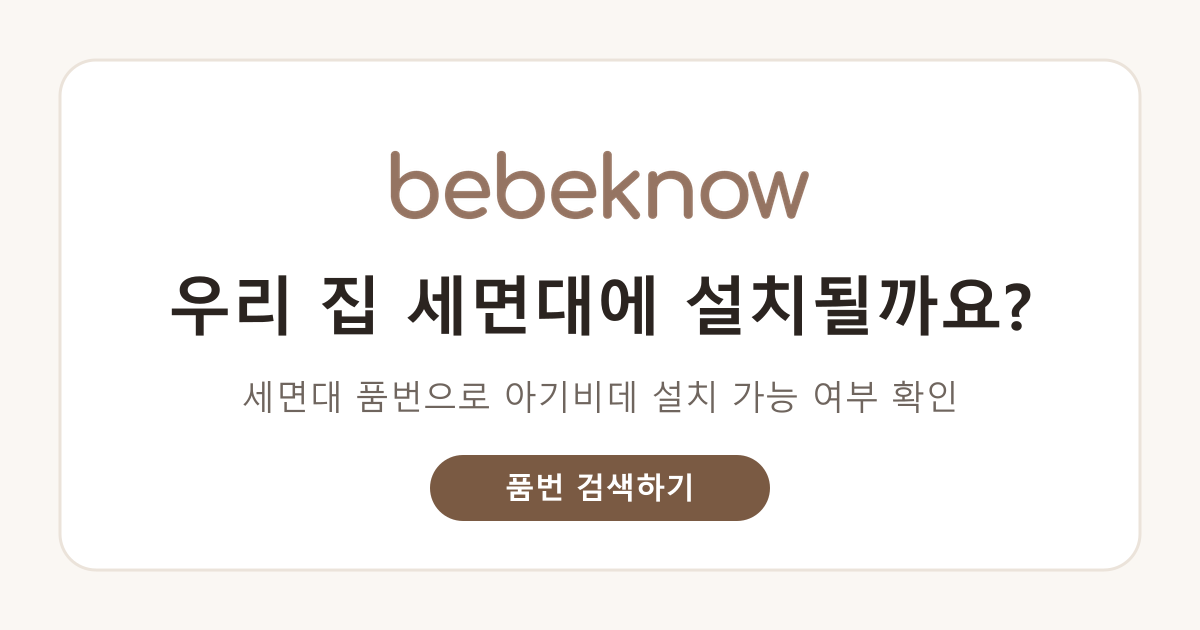
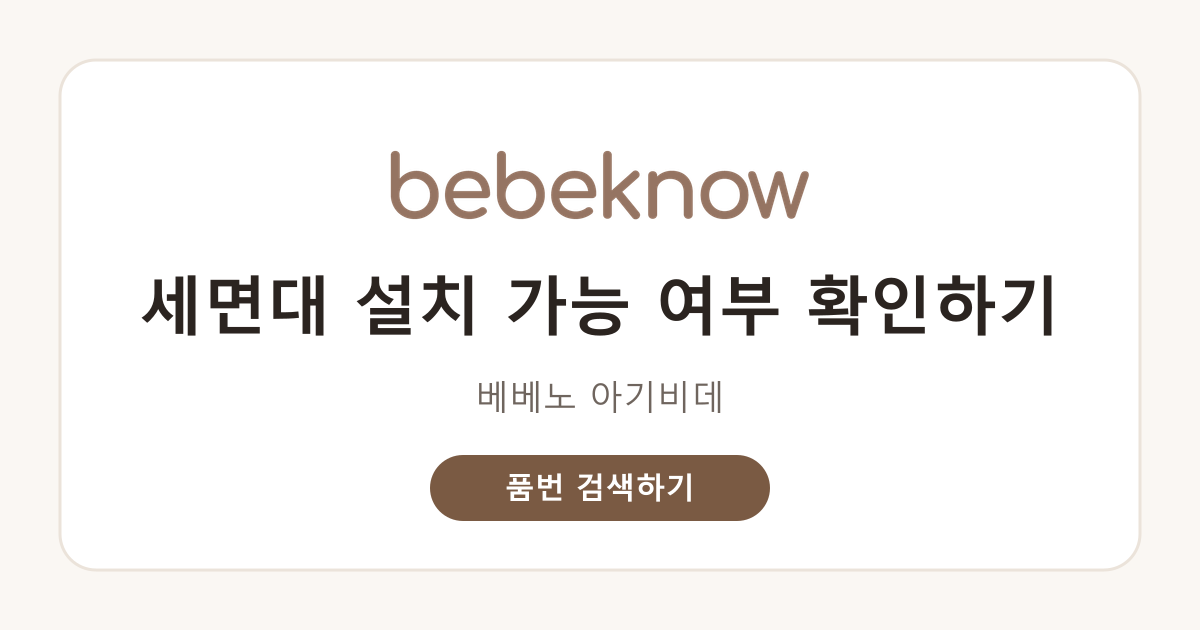
탭 제목·카톡 공유 제목·공유 이미지 문구 변경

Changed region(s): [[0.1233, 0.4222, 0.8942, 0.5429], [0.185, 0.6032, 0.8017, 0.6635]]

diff --git a/index.html b/index.html
@@ -3,14 +3,14 @@
 <head>
 <meta charset="utf-8">
 <meta name="viewport" content="width=device-width, initial-scale=1, viewport-fit=cover">
-<title>우리 집 세면대 확인 · 베베노 아기비데</title>
+<title>세면대 설치 가능 여부 확인하기 · 베베노 아기비데</title>
 <meta name="description" content="세면대 품번을 검색하면 베베노 아기비데 설치 가능 여부를 알려드려요.">
 <meta property="og:type" content="website">
 <meta property="og:site_name" content="베베노">
-<meta property="og:title" content="우리 집 세면대에 설치될까요? · 베베노 아기비데">
+<meta property="og:title" content="세면대 설치 가능 여부 확인하기 · 베베노 아기비데">
 <meta property="og:description" content="세면대 품번을 검색하면 설치 가능 여부를 바로 알려드려요.">
 <meta property="og:url" content="https://bebeknow.github.io/check/">
-<meta property="og:image" content="https://bebeknow.github.io/check/og.png?v=1">
+<meta property="og:image" content="https://bebeknow.github.io/check/og.png?v=2">
 <meta property="og:image:width" content="1200">
 <meta property="og:image:height" content="630">
 <meta name="twitter:card" content="summary_large_image">
@@ -112,7 +112,7 @@
     <a class="talk" id="talkGuide" href="#" target="_blank" rel="noopener">네이버 톡톡으로 사진 보내기</a>
   </section>
 
-  <footer>베베노 · 라이프비기닝 &nbsp;|&nbsp; 목록은 매장 확인 결과에 따라 계속 업데이트돼요 · v2026.11.17-4</footer>
+  <footer>베베노 · 라이프비기닝 &nbsp;|&nbsp; 목록은 매장 확인 결과에 따라 계속 업데이트돼요 · v2026.11.17-5</footer>
 </div>
 
 

diff --git a/src/sink-head.html b/src/sink-head.html
@@ -3,14 +3,14 @@
 <head>
 <meta charset="utf-8">
 <meta name="viewport" content="width=device-width, initial-scale=1, viewport-fit=cover">
-<title>우리 집 세면대 확인 · 베베노 아기비데</title>
+<title>세면대 설치 가능 여부 확인하기 · 베베노 아기비데</title>
 <meta name="description" content="세면대 품번을 검색하면 베베노 아기비데 설치 가능 여부를 알려드려요.">
 <meta property="og:type" content="website">
 <meta property="og:site_name" content="베베노">
-<meta property="og:title" content="우리 집 세면대에 설치될까요? · 베베노 아기비데">
+<meta property="og:title" content="세면대 설치 가능 여부 확인하기 · 베베노 아기비데">
 <meta property="og:description" content="세면대 품번을 검색하면 설치 가능 여부를 바로 알려드려요.">
 <meta property="og:url" content="https://bebeknow.github.io/check/">
-<meta property="og:image" content="https://bebeknow.github.io/check/og.png?v=1">
+<meta property="og:image" content="https://bebeknow.github.io/check/og.png?v=2">
 <meta property="og:image:width" content="1200">
 <meta property="og:image:height" content="630">
 <meta name="twitter:card" content="summary_large_image">
